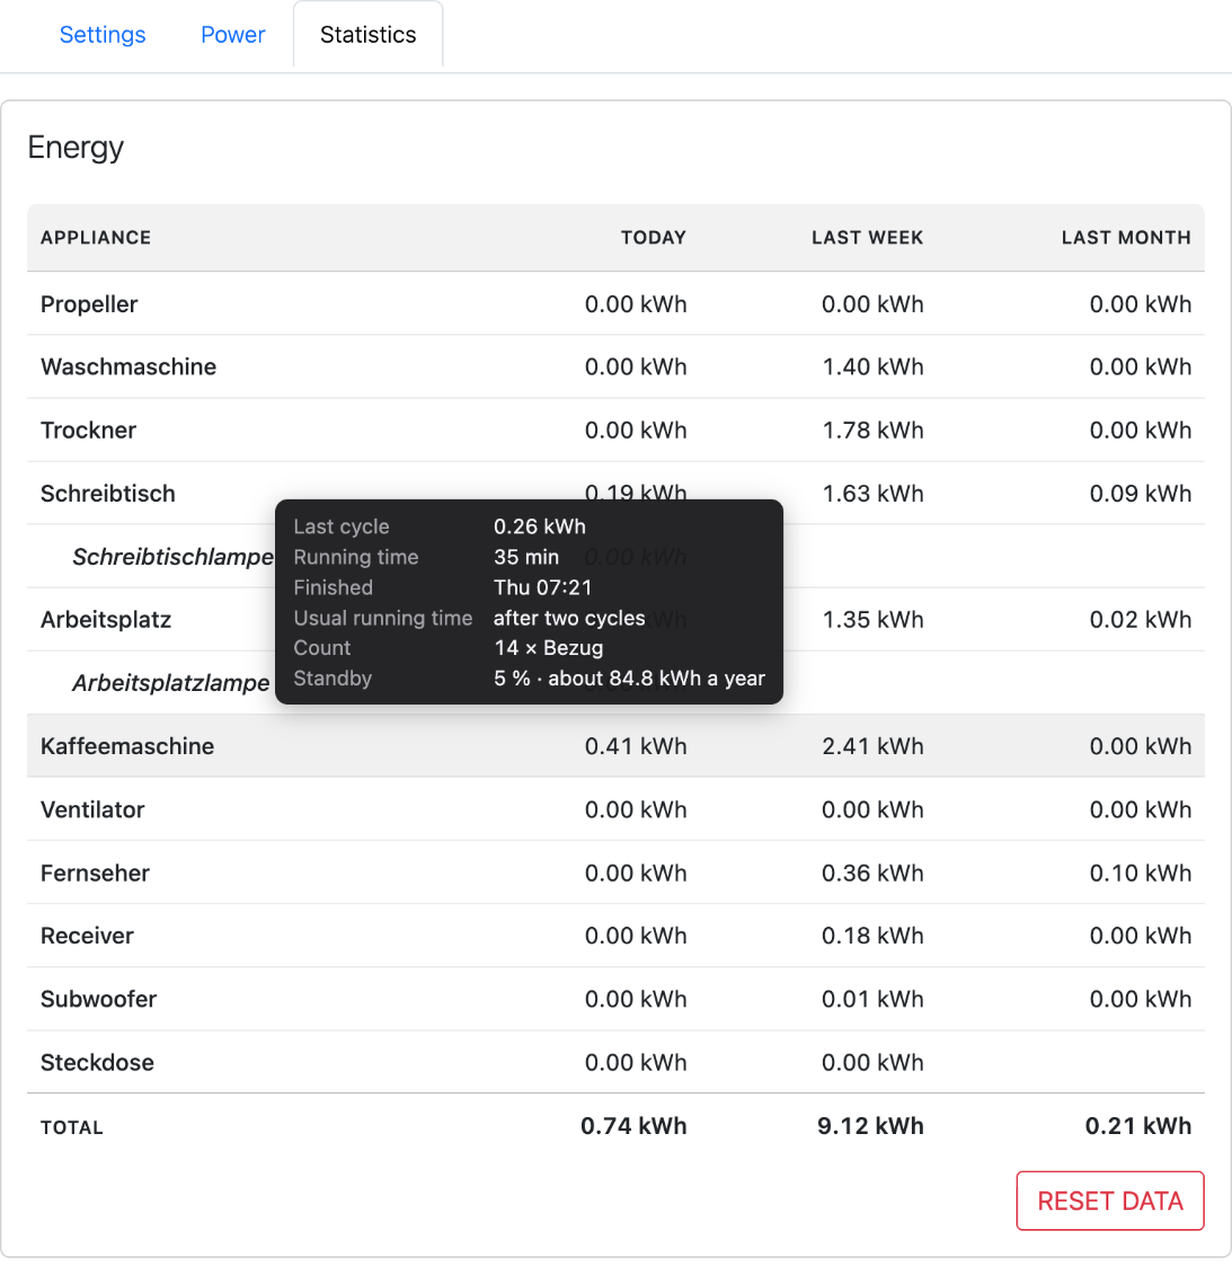
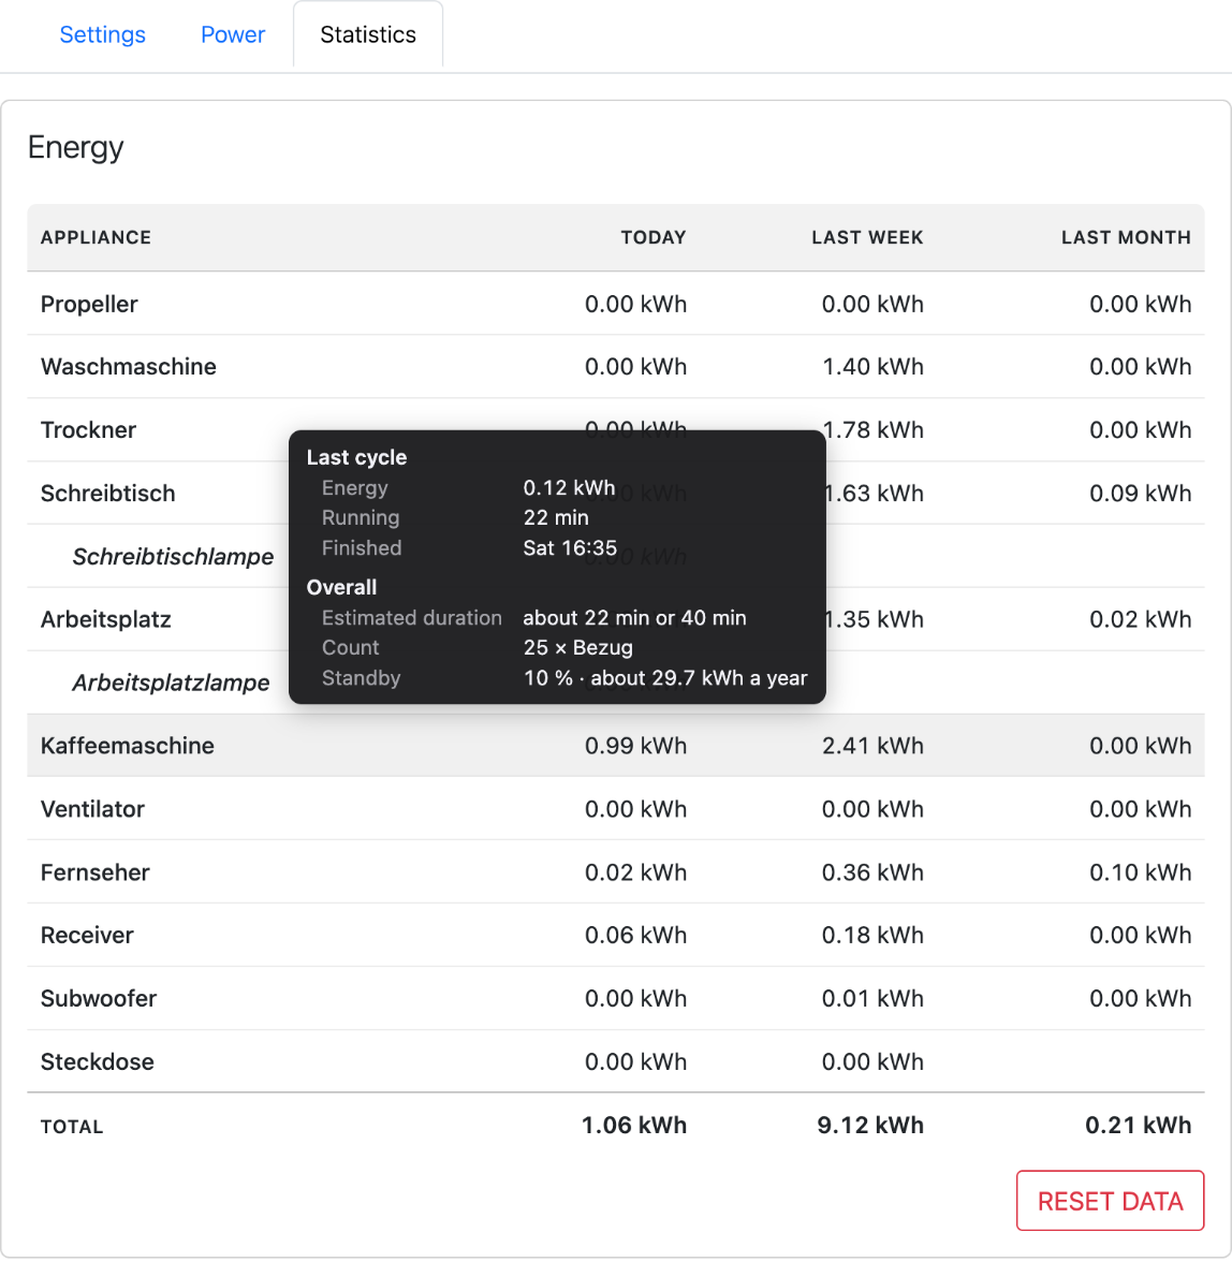
1.11.1: new Statistics screenshot with the regrouped bubble

diff --git a/CHANGELOG.md b/CHANGELOG.md
@@ -6,6 +6,12 @@ adheres to [semantic versioning](https://semver.org/spec/v2.0.0.html).
 
 ## [Unreleased]
 
+## [1.11.1] — 2026-10-17
+
+### Changed
+
+- New Statistics screenshot in the README, with the bubble as of 1.11.0.
+
 ## [1.11.0] — 2026-10-17
 
 ### Changed
@@ -785,7 +791,8 @@ The first published version.
 - A short log: one line per plug on start, what a plug offers once when it is
   paired, then only what changes.
 
-[Unreleased]: https://github.com/rummeyer/homebridge-appliance-monitor/compare/v1.11.0...HEAD
+[Unreleased]: https://github.com/rummeyer/homebridge-appliance-monitor/compare/v1.11.1...HEAD
+[1.11.1]: https://github.com/rummeyer/homebridge-appliance-monitor/compare/v1.11.0...v1.11.1
 [1.11.0]: https://github.com/rummeyer/homebridge-appliance-monitor/compare/v1.10.2...v1.11.0
 [1.10.2]: https://github.com/rummeyer/homebridge-appliance-monitor/compare/v1.10.1...v1.10.2
 [1.10.1]: https://github.com/rummeyer/homebridge-appliance-monitor/compare/v1.10.0...v1.10.1
